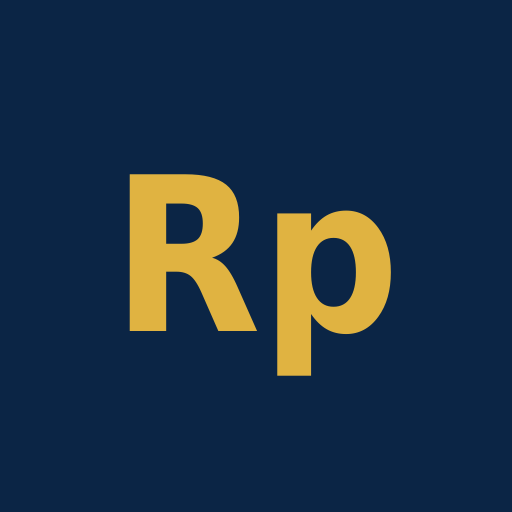
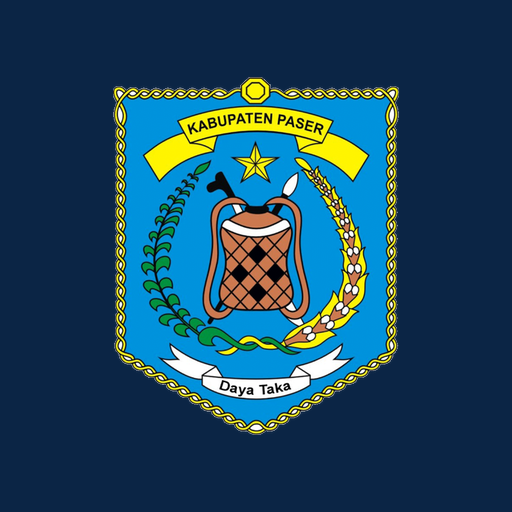
Add files via upload

diff --git a/index.html b/index.html
@@ -1,29 +1,29 @@
-<!DOCTYPE html><html lang="id"><head><meta charset="utf-8"><meta name="viewport" content="width=device-width,initial-scale=1"><meta name="theme-color" content="#0b2545"><link rel="manifest" href="manifest.json"><link rel="icon" href="icon.svg"><link rel="apple-touch-icon" href="icon-192.png"><meta name="apple-mobile-web-app-capable" content="yes"><meta name="mobile-web-app-capable" content="yes"><title>Potensi Pajak Daerah - BAPENDA Paser</title>
+<!DOCTYPE html><html lang="id"><head><meta charset="utf-8"><meta name="viewport" content="width=device-width,initial-scale=1,viewport-fit=cover"><meta name="theme-color" content="#073b6b"><link rel="manifest" href="manifest.json"><link rel="icon" href="icon-192.png"><link rel="apple-touch-icon" href="icon-192.png"><meta name="apple-mobile-web-app-capable" content="yes"><meta name="mobile-web-app-capable" content="yes"><title>Potensi Pajak Daerah - BAPENDA Paser</title>
 <script src="https://cdnjs.cloudflare.com/ajax/libs/xlsx/0.18.5/xlsx.full.min.js"></script>
 <style>
-:root{--navy:#0b2545;--gold:#e0b341;--bg:#f3f5f9;--ink:#16202e;--mut:#5d6b80;--line:#d5dbe6}
-*{box-sizing:border-box}body{margin:0;padding-bottom:110px;font:15px/1.45 system-ui,sans-serif;background:var(--bg);color:var(--ink)}
-header{background:var(--navy);color:#fff;padding:14px 16px 0;position:sticky;top:0;z-index:5}
-h1{font:700 18px Georgia,serif;margin:0 0 2px}header small{color:#b9c6dc}
-nav{display:flex;gap:4px;margin-top:10px}nav button{flex:1;padding:10px 4px;border:0;background:#17375f;color:#cfd9ea;font:600 14px inherit;border-radius:8px 8px 0 0}
-nav button.on{background:var(--bg);color:var(--navy)}
+:root{--navy:#073b6b;--blue:#0a6bb5;--gold:#f2c200;--bg:#f2f6fa;--ink:#16202e;--mut:#5d6b80;--line:#d5dde8}
+*{box-sizing:border-box}body{margin:0;padding-bottom:96px;font:15px/1.45 system-ui,sans-serif;background:var(--bg);color:var(--ink)}
+header{background:var(--navy);color:#fff;padding:calc(10px + env(safe-area-inset-top,0px)) 14px 0;position:sticky;top:0;z-index:5}
+.br{display:flex;align-items:center;gap:10px}.br img{height:46px;width:auto}h1{font:700 17px/1.2 Georgia,serif;margin:0}header small{color:#b9cfe6}
+nav{display:flex;gap:4px;margin-top:10px}nav button{flex:1;padding:10px 4px;border:0;background:#0d4d8a;color:#cfe0f2;font:600 14px inherit;border-radius:8px 8px 0 0}nav button.on{background:var(--bg);color:var(--navy)}
 main{padding:14px;max-width:900px;margin:auto}
-.tot{display:grid;grid-template-columns:repeat(2,1fr);gap:8px;margin-bottom:12px}
-.tot div{background:#fff;border:1px solid var(--line);border-radius:8px;padding:8px 10px}.tot b{display:block;font-size:15px}.tot span{color:var(--mut);font-size:12px}
-.tot .g{grid-column:1/-1;background:var(--navy);color:#fff}.tot .g span{color:#b9c6dc}
+.tot{display:flex;justify-content:space-between;align-items:baseline;margin-bottom:12px;padding:0 2px}.tot span{color:var(--mut);font-size:13px}.tot b{font-size:18px;color:var(--navy)}
 .card{background:#fff;border:1px solid var(--line);border-radius:10px;padding:12px;margin-bottom:12px}
-.grid{display:grid;grid-template-columns:repeat(auto-fill,minmax(150px,1fr));gap:8px}
-label{font-size:12px;color:var(--mut);display:block}input,select,textarea{width:100%;padding:8px;border:1px solid var(--line);border-radius:6px;font:inherit;background:#fff}
+.grid{display:grid;grid-template-columns:repeat(auto-fill,minmax(150px,1fr));gap:10px}
+label{font-size:12px;color:var(--mut);display:block;margin-bottom:2px}.au{color:var(--blue)}
+input,select,textarea{width:100%;padding:9px;border:1px solid var(--line);border-radius:6px;font:inherit;background:#fff}input:focus,select:focus,textarea:focus,button:focus-visible{outline:2px solid var(--blue);outline-offset:1px}
 textarea{min-height:110px;font:13px monospace}
-.btn{padding:9px 14px;border:0;border-radius:7px;background:var(--navy);color:#fff;font:600 14px inherit;margin:8px 6px 0 0}.btn.o{background:var(--gold);color:var(--navy)}.btn.l{background:#fff;color:var(--navy);border:1px solid var(--navy)}
-table{width:100%;border-collapse:collapse;font-size:13px}td,th{padding:7px 6px;border-bottom:1px solid var(--line);text-align:left;vertical-align:top}th{color:var(--mut);font-weight:600}td.r,th.r{text-align:right}
-.x{border:0;background:none;color:#b3261e;font-size:18px}.warn{background:#fff6dd;border:1px solid var(--gold);border-radius:8px;padding:9px 11px;font-size:13px;margin-bottom:12px}
+.btn{padding:10px 14px;border:0;border-radius:7px;background:var(--navy);color:#fff;font:600 14px inherit;margin:10px 6px 0 0}.btn.o{background:var(--gold);color:var(--navy)}.btn.l{background:#fff;color:var(--navy);border:1px solid var(--navy)}
+details summary{cursor:pointer;color:var(--blue);font-weight:600;font-size:14px}details.ex{margin-top:12px}details.ex .grid{margin-top:10px}
+table{width:100%;border-collapse:collapse;font-size:13px}td,th{padding:8px 6px;border-bottom:1px solid var(--line);text-align:left;vertical-align:top}th{color:var(--mut);font-weight:600}td.r,th.r{text-align:right}
+.warn{background:#fff6dd;border:1px solid var(--gold);border-radius:8px;padding:9px 11px;font-size:13px;margin-bottom:12px}
 .sc{overflow-x:auto}.res{font-size:12px;color:var(--mut)}
-.live{position:fixed;left:0;right:0;bottom:0;background:var(--navy);color:#fff;padding:8px 14px;display:flex;flex-wrap:wrap;gap:2px 16px;z-index:6;border-top:3px solid var(--gold)}
-.lr span{color:#b9c6dc;font-size:12px;margin-right:6px}.lr.t{width:100%;font-size:17px}.lr.t b{color:var(--gold)}
-.det td{background:#f8f9fc;font-size:12px}.det .btn{padding:6px 10px;font-size:13px}tr.k{cursor:pointer}
+.live{position:fixed;left:0;right:0;bottom:0;background:var(--navy);color:#fff;padding:8px 14px calc(8px + env(safe-area-inset-bottom,0px));z-index:6;border-top:3px solid var(--gold)}
+.live .t{display:flex;justify-content:space-between;align-items:baseline;font-size:17px}.live .t span{font-size:13px;color:#b9cfe6}.live .t b{color:var(--gold)}.live .d{font-size:12px;color:#b9cfe6;display:flex;flex-wrap:wrap;gap:0 14px}
+.det td{background:#f8fafc;font-size:12px}.det .btn{padding:6px 10px;font-size:13px}tr.k{cursor:pointer}
+@media(prefers-reduced-motion:no-preference){details[open]>.grid{animation:o .15s}@keyframes o{from{opacity:0}}}
 </style></head><body>
-<header><h1>Potensi pajak daerah</h1><small>BAPENDA Kabupaten Paser</small><button id="ins" class="btn o" style="display:none;position:absolute;right:12px;top:8px;margin:0" onclick="installApp()">Install aplikasi</button><nav id="nav"></nav></header>
+<header><div class="br"><img src="logo.png" alt="Lambang Kabupaten Paser"><div><h1>Potensi Pajak Daerah</h1><small>BAPENDA Kabupaten Paser</small></div><button id="ins" class="btn o" style="display:none;margin:0 0 0 auto" onclick="installApp()">Install</button></div><nav id="nav"></nav></header>
 <main><div class="tot" id="tot"></div><div id="view"></div></main><div class="live" id="live"></div>
 <script>
 const KEC=['Batu Engau','Batu Sopang','Kuaro','Long Ikis','Long Kali','Muara Komam','Muara Samu','Pasir Belengkong','Tanah Grogot','Tanjung Harapan','Belum diisi'];
@@ -31,41 +31,40 @@ const N=x=>parseFloat(x)||0,R=x=>'Rp '+Math.round(x).toLocaleString('id-ID');
 const def=()=>({hotel:[],hib:[],rek:[],cfg:{auto:true,arH:'Tanah Grogot = 36\nKuaro = 70\nLong Ikis = 42\nLong Kali = 50\nBatu Sopang = 72\nLainnya = 42',arB:'Karaoke = 50\nBioskop = 50\nBiliar = 50\nPanti pijat = 50\nKetangkasan mesin = 50\nPusat kebugaran = 50\nRefleksi = 50',tarif:20,jenis:'Billboard = 0\nBaliho = 0\nPapan nama = 0\nSpanduk = 0\nVideotron = 0\nNeon box = 0',lokasi:'Strategis tinggi = 0\nStrategis sedang = 0\nStrategis rendah = 0'}});
 let S;try{S=JSON.parse(localStorage.getItem('ppd'))||def()}catch(e){S=def()}S.cfg={...def().cfg,...S.cfg};
 const save=()=>localStorage.setItem('ppd',JSON.stringify(S));
-// field: 'kunci:Label:default'
-const BASE=['nama:Nama usaha','alamat:Alamat','kec:Kecamatan'];
-const parse=s=>s.map(x=>{const[k,l,d]=x.split(':');return{k,l,d:d??''}});
+// field 'kunci:Label:default:x' ; x = rincian tambahan (disembunyikan). default kosong = teks
+const BASE=['nama:Nama usaha','kec:Kecamatan','alamat:Alamat::x'];
+const parse=s=>s.map(x=>{const[k,l,d,x2]=x.split(':');return{k,l,d:d??'',x:x2=='x'}});
 const lst=t=>t.split('\n').map(l=>l.split('=')).filter(a=>a[0].trim()).map(a=>({n:a[0].trim(),v:N(a[1])}));
-const MOD={
-hotel:{nama:'Hotel',f:['kategori:Kategori (melati/bintang)','jenis:Jenis kamar','jml:Jumlah kamar:1','tarif:Tarif kamar (Rp):0','occ:Okupansi rata-rata (%):50','tp:Tarif pajak (%):10','hari:Hari setahun:365','mkn:F&B harga makan/orang:0','mnm:F&B harga minum/orang:0','fbh:F&B jumlah hari:0','fbar:F&B okupansi (%):0','rj:Ruang rapat jumlah:0','rt:Ruang rapat tarif:0','rh:Ruang rapat hari:0','rp:Paket makanan/orang:0','ro:Paket jumlah orang:0','rar:Ruang rapat okupansi (%):0','oth:Pendapatan lainnya (Rp):0'],
+const AK=['occ','fbar','rar','ar','arr','ark'];
+const MOD={hotel:{nama:'Hotel',f:['jml:Jumlah kamar:1','tarif:Tarif kamar per malam (Rp):0','occ:Okupansi (%):50','kategori:Kategori (melati/bintang)::x','jenis:Jenis kamar::x','tp:Tarif pajak (%):10:x','hari:Hari setahun:365:x','mkn:F&B harga makan/orang:0:x','mnm:F&B harga minum/orang:0:x','fbh:F&B jumlah hari:0:x','fbar:F&B okupansi (%):0:x','rj:Ruang rapat jumlah:0:x','rt:Ruang rapat tarif:0:x','rh:Ruang rapat hari:0:x','rp:Paket makanan/orang:0:x','ro:Paket jumlah orang:0:x','rar:Ruang rapat okupansi (%):0:x','oth:Pendapatan lainnya (Rp):0:x'],
  c:v=>{const l=v.tp/100,a=v.jml*v.tarif*v.occ/100*l*v.hari,b=(v.mkn+v.mnm)*v.fbh*v.fbar/100*l,c=(v.rj*v.rt*v.rh+v.rp*v.ro*v.rar/100)*l,d=v.oth*l;return{Kamar:a,'Food & beverage':b,'Ruang pertemuan':c,Lainnya:d,Total:a+b+c+d}}}};
 const HIB={
-karaoke:['Karaoke',['jk:Jumlah kamar/hall:1','tk:Tarif kamar (Rp):0','ar:Okupansi (%):30','je:Jam efektif/hari:8','pg:Pengunjung F&B/hari:0','hp:Harga rata-rata porsi:0','h:Hari setahun:365','tp:Tarif pajak (%):40'],v=>{const a=v.jk*v.tk*v.ar/100*v.je*v.h*v.tp/100,b=v.pg*v.hp*v.h*v.tp/100;return{Karaoke:a,'Restoran dalam karaoke':b,Total:a+b}}],
-bioskop:['Bioskop',['g:Jumlah theater:1','hh:Pertunjukan/hari:0','kk:Kapasitas kursi:0','ar:Okupansi (%):0','htm:HTM (Rp):0','tp:Tarif pajak (%):10','h:Hari:365'],v=>({Total:v.g*v.hh*v.kk*v.ar/100*v.htm*v.tp/100*v.h})],
-biliar:['Biliar',['m:Jumlah meja:1','t:Tarif/jam (Rp):0','ar:Okupansi (%):0','je:Jam efektif:8','tp:Tarif pajak (%):10','h:Hari:365'],v=>({Total:v.m*v.t*v.ar/100*v.je*v.tp/100*v.h})],
-pijat:['Panti pijat',['g:Jumlah room/bed:1','t:Tarif (Rp):0','ar:Okupansi (%):0','to:Turn over/hari:0','h:Hari:365','tp:Tarif pajak (%):10'],v=>({Total:v.g*v.t*v.ar/100*v.to*v.h*v.tp/100})],
-tangkas:['Ketangkasan mesin',['t:Tarif/mesin (Rp):0','m:Rata-rata mesin dipakai/hari:0','occ:Okupansi pengunjung (%):0','tp:Tarif pajak (%):10','h:Hari:365'],v=>({Total:v.t*v.m*v.occ/100*v.tp/100*v.h})],
-fitness:['Pusat kebugaran',['a:Jumlah anggota:0','b:Biaya keanggotaan/bulan (Rp):0','bl:Jumlah bulan:12','tp:Tarif pajak (%):10'],v=>({Total:v.a*v.b*v.bl*v.tp/100})],
-refleksi:['Refleksi',['jr:Jumlah room:0','tr:Tarif room (Rp):0','arr:Okupansi room (%):0','to1:Turn over room:0','h1:Hari room:365','jk:Jumlah kursi:0','tk:Tarif kursi (Rp):0','ark:Okupansi kursi (%):0','to2:Turn over kursi:0','h2:Hari kursi:365','tp:Tarif pajak (%):10'],v=>({Total:(v.jr*v.tr*v.arr/100*v.to1*v.h1+v.jk*v.tk*v.ark/100*v.to2*v.h2)*v.tp/100})]};
+karaoke:['Karaoke',['jk:Jumlah kamar/hall:1','tk:Tarif kamar per jam (Rp):0','ar:Okupansi (%):30','je:Jam efektif/hari:8:x','pg:Pengunjung F&B/hari:0:x','hp:Harga rata-rata porsi:0:x','h:Hari setahun:365:x','tp:Tarif pajak (%):40:x'],v=>{const a=v.jk*v.tk*v.ar/100*v.je*v.h*v.tp/100,b=v.pg*v.hp*v.h*v.tp/100;return{Karaoke:a,'Restoran dalam karaoke':b,Total:a+b}}],
+bioskop:['Bioskop',['hh:Pertunjukan/hari:0','kk:Kapasitas kursi:0','htm:HTM (Rp):0','ar:Okupansi (%):0','g:Jumlah theater:1:x','tp:Tarif pajak (%):10:x','h:Hari:365:x'],v=>({Total:v.g*v.hh*v.kk*v.ar/100*v.htm*v.tp/100*v.h})],
+biliar:['Biliar',['m:Jumlah meja:1','t:Tarif/jam (Rp):0','ar:Okupansi (%):0','je:Jam efektif:8:x','tp:Tarif pajak (%):10:x','h:Hari:365:x'],v=>({Total:v.m*v.t*v.ar/100*v.je*v.tp/100*v.h})],
+pijat:['Panti pijat',['g:Jumlah room/bed:1','t:Tarif (Rp):0','to:Turn over/hari:0','ar:Okupansi (%):0','h:Hari:365:x','tp:Tarif pajak (%):10:x'],v=>({Total:v.g*v.t*v.ar/100*v.to*v.h*v.tp/100})],
+tangkas:['Ketangkasan mesin',['t:Tarif/mesin (Rp):0','m:Rata-rata mesin dipakai/hari:0','occ:Okupansi pengunjung (%):0','tp:Tarif pajak (%):10:x','h:Hari:365:x'],v=>({Total:v.t*v.m*v.occ/100*v.tp/100*v.h})],
+fitness:['Pusat kebugaran',['a:Jumlah anggota:0','b:Biaya keanggotaan/bulan (Rp):0','bl:Jumlah bulan:12:x','tp:Tarif pajak (%):10:x'],v=>({Total:v.a*v.b*v.bl*v.tp/100})],
+refleksi:['Refleksi',['jr:Jumlah room:0','tr:Tarif room (Rp):0','arr:Okupansi room (%):0','to1:Turn over room:0','jk:Jumlah kursi:0:x','tk:Tarif kursi (Rp):0:x','ark:Okupansi kursi (%):0:x','to2:Turn over kursi:0:x','h1:Hari room:365:x','h2:Hari kursi:365:x','tp:Tarif pajak (%):10:x'],v=>({Total:(v.jr*v.tr*v.arr/100*v.to1*v.h1+v.jk*v.tk*v.ark/100*v.to2*v.h2)*v.tp/100})]};
 // Reklame: NSR = NJOPR + NSPR (tanpa kelas jalan); pajak = NSR x tarif
-const REK=['nama:Nama/penyelenggara','alamat:Alamat','kec:Kecamatan','jenis:Jenis reklame','lokasi:Lokasi strategis','pjg:Panjang (m):0','lbr:Lebar (m):0','sisi:Jumlah sisi:1','jml:Jumlah unit:1','masa:Masa (bulan):12'];
+const REK=['nama:Nama/penyelenggara','jenis:Jenis reklame','lokasi:Lokasi strategis','pjg:Panjang (m):0','lbr:Lebar (m):0','sisi:Jumlah sisi:1','masa:Masa (bulan):12','jml:Jumlah unit:1:x','kec:Kecamatan::x','alamat:Alamat::x'];
 function calcRek(v){const J=lst(S.cfg.jenis).find(x=>x.n==v.jenis),L=lst(S.cfg.lokasi).find(x=>x.n==v.lokasi),luas=v.pjg*v.lbr,
  njopr=luas*v.sisi*v.jml*(J?J.v:0),nspr=(L?L.v:0)*v.sisi*v.jml,nsr=(njopr+nspr)*v.masa/12;
  return{'Luas (m2)':luas,NJOPR:njopr,NSPR:nspr,NSR:nsr,Total:nsr*N(S.cfg.tarif)/100}}
 let tab='hotel',hibJ='karaoke',editIdx=null,ex=new Set();const esc=s=>String(s??'').replace(/[&<>"]/g,c=>({'&':'&amp;','<':'&lt;','>':'&gt;','"':'&quot;'}[c]));
 const fmt=(k,x)=>k.startsWith('Luas')?x.toLocaleString('id-ID'):R(x);
-function inp(f,pre){const id='f_'+f.k;
- if(f.k=='kec')return`<div><label>${f.l}</label><select id="${id}">${KEC.map(k=>`<option>${k}</option>`).join('')}</select></div>`;
- if(f.k=='jenis'&&pre=='rek')return`<div><label>${f.l}</label><select id="${id}">${lst(S.cfg.jenis).map(x=>`<option>${x.n}</option>`).join('')}</select></div>`;
- if(f.k=='lokasi')return`<div><label>${f.l}</label><select id="${id}">${lst(S.cfg.lokasi).map(x=>`<option>${x.n}</option>`).join('')}</select></div>`;
- const t=f.d!==''?'number':'text';return`<div><label>${f.l}</label><input id="${id}" type="${t}" inputmode="${t=='number'?'decimal':'text'}" value="${f.d}"></div>`}
-function fieldsFor(m){return m=='hotel'?[...parse(BASE),...parse(MOD.hotel.f)]:m=='hib'?[...parse(BASE),...parse(HIB[hibJ][1])]:parse(REK)}
+function inp(f,pre){const id='f_'+f.k,L=f.l+(AK.includes(f.k)?' <span class="au">· otomatis</span>':'');
+ const sel=a=>`<div><label>${L}</label><select id="${id}">${a.map(k=>`<option>${k}</option>`).join('')}</select></div>`;
+ if(f.k=='kec')return sel(KEC);if(f.k=='jenis'&&pre=='rek')return sel(lst(S.cfg.jenis).map(x=>x.n));if(f.k=='lokasi')return sel(lst(S.cfg.lokasi).map(x=>x.n));
+ const t=f.d!==''?'number':'text';return`<div><label>${L}</label><input id="${id}" type="${t}" inputmode="${t=='number'?'decimal':'text'}" value="${f.d}"></div>`}
+const FS=(m,j)=>m=='hotel'?[...parse(BASE),...parse(MOD.hotel.f)]:m=='hib'?[...parse(BASE),...parse(HIB[j][1])]:parse(REK);
+const fieldsFor=m=>FS(m,hibJ),fieldsFor2=(m,e)=>FS(m,e.j);
 function read(fs){const v={};fs.forEach(f=>{const e=document.getElementById('f_'+f.k);v[f.k]=f.d!==''?N(e.value):e.value});return v}
 function calc(m,e){return m=='hotel'?MOD.hotel.c(e.v):m=='hib'?HIB[e.j][2](e.v):calcRek(e.v)}
 function add(){const fs=fieldsFor(tab),v=read(fs);if(!v.nama.trim()){alert('Isi nama usaha dulu.');return}
- const e={v};if(tab=='hib')e.j=hibJ;if(editIdx!=null){S[tab][editIdx]=e;editIdx=null}else S[tab].push(e);save();render()}
+ const e={v};if(tab=='hib')e.j=hibJ;if(editIdx!=null){S[tab][editIdx]=e;editIdx=null}else S[tab].push(e);save();render();scrollTo(0,0)}
 function del(i){if(confirm('Hapus data ini?')){S[tab].splice(i,1);save();render()}}
 function rows(m){return S[m].map((e,i)=>{const fs=fieldsFor2(m,e),o={No:i+1};if(m=='hib')o['Jenis hiburan']=HIB[e.j][0];fs.forEach(f=>o[f.l]=e.v[f.k]);Object.entries(calc(m,e)).forEach(([k,x])=>o[k=='Total'?'Potensi pajak (Rp)':k]=Math.round(x*100)/100);return o})}
-function fieldsFor2(m,e){return m=='hotel'?[...parse(BASE),...parse(MOD.hotel.f)]:m=='hib'?[...parse(BASE),...parse(HIB[e.j][1])]:parse(REK)}
 const tot=m=>S[m].reduce((s,e)=>s+calc(m,e).Total,0);
 const NM={hotel:'Hotel',hib:'Kesenian & hiburan',rek:'Reklame'};
 function file(n,ext){return`potensi-${n}-${new Date().toISOString().slice(0,10)}.${ext}`}
@@ -78,12 +77,17 @@ function xl(all){const wb=XLSX.utils.book_new(),ms=all?['hotel','hib','rek']:[ta
  if(!any)return alert('Belum ada data.');XLSX.writeFile(wb,file(all?'semua':tab,'xlsx'))}
 function saveCfg(){const g=i=>document.getElementById(i);S.cfg.tarif=N(g('c_t').value);S.cfg.jenis=g('c_j').value;S.cfg.lokasi=g('c_l').value;save();render()}
 function saveAR(){const g=i=>document.getElementById(i);S.cfg.auto=g('a_on').checked;if(g('a_h'))S.cfg.arH=g('a_h').value;if(g('a_b'))S.cfg.arB=g('a_b').value;save();render()}
+// ---- okupansi otomatis: rata-rata data tersimpan (kecamatan / jenis yang sama), kalau belum ada pakai tabel awal ----
 const look=(t,n)=>{const l=lst(t),f=l.find(x=>x.n.toLowerCase()==String(n).toLowerCase())||l.find(x=>x.n.toLowerCase()=='lainnya');return f?f.v:null};
-function applyAR(){if(!S.cfg.auto||tab=='rek')return;const el=k=>document.getElementById('f_'+k),val=tab=='hotel'?look(S.cfg.arH,el('kec').value):look(S.cfg.arB,HIB[hibJ][0]);
- if(val==null)return;['occ','fbar','rar','ar','arr','ark'].forEach(k=>{const e=el(k);if(e)e.value=val})}
-function chg(ev){if(ev.target.id=='f_kec'&&tab=='hotel')applyAR();live()}
+function autoVal(){const el=k=>document.getElementById('f_'+k);let a;
+ if(tab=='hotel'){const kc=el('kec').value;a=S.hotel.filter(e=>e.v.kec==kc&&e.v.occ>0).map(e=>e.v.occ);if(!a.length)return look(S.cfg.arH,kc)}
+ else{a=S.hib.filter(e=>e.j==hibJ).map(e=>e.v.ar??e.v.occ??e.v.arr).filter(x=>x>0);if(!a.length)return look(S.cfg.arB,HIB[hibJ][0])}
+ return Math.round(a.reduce((s,x)=>s+x,0)/a.length*10)/10}
+function applyAR(){if(!S.cfg.auto||tab=='rek')return;const v=autoVal();if(v==null)return;AK.forEach(k=>{const e=document.getElementById('f_'+k);if(e&&!e.dataset.man)e.value=v})}
+function chg(ev){const t=ev.target;if(AK.includes(t.id.slice(2)))t.dataset.man=1;if(t.id=='f_kec'&&tab=='hotel'){AK.forEach(k=>{const e=document.getElementById('f_'+k);if(e)delete e.dataset.man});applyAR()}live()}
 function live(){let c;try{c=calc(tab,{v:read(fieldsFor(tab)),j:hibJ})}catch(e){return}
- document.getElementById('live').innerHTML=Object.entries(c).map(([k,x])=>k=='Total'?`<div class="lr t"><span>${tab=='rek'?'Pajak reklame per tahun':'Potensi pajak per tahun'}</span><b>${fmt(k,x)}</b></div>`:`<div class="lr"><span>${k}</span>${fmt(k,x)}</div>`).join('')}
+ const d=Object.entries(c).filter(([k,x])=>k!='Total'&&Object.keys(c).length>2).map(([k,x])=>`<span>${k}: ${fmt(k,x)}</span>`).join('');
+ document.getElementById('live').innerHTML=`<div class="t"><span>${tab=='rek'?'Pajak reklame per tahun':'Potensi pajak per tahun'}</span><b>${fmt('Total',c.Total)}</b></div>${d?`<div class="d">${d}</div>`:''}`}
 // ---- import ----
 const pc=x=>{x=N(x);return x<=1?x*100:x};
 function kecM(t){t=String(t).toLowerCase();if(/\btgt\b/.test(t))return'Tanah Grogot';return KEC.find(k=>t.includes(k.toLowerCase()))||'Belum diisi'}
@@ -93,30 +97,42 @@ function impHotel(a){const kec=kecM(a[1]?.[0]);let nm='',al='',kt='',c=0;
 function impKar(a){let c=0;for(let i=6;i<a.length;i++){const r=a[i];if(!String(r[1]).trim()||!(N(r[6])>0))continue;
  S.hib.push({j:'karaoke',v:{nama:String(r[1]).trim(),alamat:String(r[2]).trim(),kec:kecM(r[2]),jk:N(r[6]),tk:N(r[7]),ar:pc(r[8]),je:N(r[9]),pg:N(r[10]),hp:N(r[11]),h:N(r[12])||365,tp:pc(r[13])||40}});c++}return c}
 function impOwn(sn,a){if(!a[0]||!a[0].includes('Nama usaha')||sn=='Ringkasan')return 0;const m=Object.keys(NM).find(k=>NM[k].slice(0,31)==sn)||tab;let c=0;
- a.slice(1).forEach(r=>{const o={};a[0].forEach((h,i)=>o[h]=r[i]);if(!String(o['Nama usaha']).trim())return;let e={},fs;
-  if(m=='hib'){const j=Object.keys(HIB).find(k=>HIB[k][0]==o['Jenis hiburan']);if(!j)return;e.j=j;fs=[...parse(BASE),...parse(HIB[j][1])]}else fs=m=='hotel'?[...parse(BASE),...parse(MOD.hotel.f)]:parse(REK);
+ a.slice(1).forEach(r=>{const o={};a[0].forEach((h,i)=>o[h]=r[i]);if(!String(o['Nama usaha']??o['Nama/penyelenggara']??'').trim())return;let e={},fs;
+  if(m=='hib'){const j=Object.keys(HIB).find(k=>HIB[k][0]==o['Jenis hiburan']);if(!j)return;e.j=j;fs=FS('hib',j)}else fs=FS(m);
   e.v={};fs.forEach(f=>e.v[f.k]=f.d!==''?N(o[f.l]):String(o[f.l]??''));S[m].push(e);c++});return c}
+const GH={nama:/nama/i,alamat:/alamat/i,kec:/kecamatan|kec\./i,jml:/jumlah\s*kamar|jml.*kamar/i,tarif:/(tarif|harga).*kamar/i,occ:/okupansi|hunian/i};
+function impGen(a){let hi=-1,mp;
+ for(let i=0;i<Math.min(a.length,20)&&hi<0;i++){const m={};a[i].forEach((c,j)=>{const t=String(c);for(const k in GH)if(m[k]==null&&GH[k].test(t)&&!(k=='nama'&&/pemilik|npwpd|kode|petugas/i.test(t)))m[k]=j});if(m.nama!=null&&(m.alamat!=null||m.kec!=null)){hi=i;mp=m}}
+ if(hi<0)return 0;let c=0;
+ a.slice(hi+1).forEach(r=>{const nm=String(r[mp.nama]??'').trim();if(!nm)return;const v={};
+  FS(tab,hibJ).forEach(x=>v[x.k]=x.d!==''?N(x.d):'');
+  v.nama=nm;v.alamat=mp.alamat!=null?String(r[mp.alamat]).trim():'';v.kec=kecM(mp.kec!=null?r[mp.kec]:v.alamat);
+  if(tab=='hotel'){if(mp.jml!=null&&N(r[mp.jml])>0)v.jml=N(r[mp.jml]);if(mp.tarif!=null)v.tarif=N(r[mp.tarif]);if(mp.occ!=null&&N(r[mp.occ])>0)v.occ=pc(r[mp.occ])}
+  const e={v};if(tab=='hib')e.j=hibJ;S[tab].push(e);c++});return c}
 function impSheet(sn,a){const t=String(a[0]?.[0]||'').toUpperCase();
- if(t.includes('POTENSI PAJAK HOTEL'))return impHotel(a);if(t.includes('KARAOKE UMUM'))return impKar(a);return impOwn(sn,a)}
+ if(t.includes('POTENSI PAJAK HOTEL'))return impHotel(a);if(t.includes('KARAOKE UMUM'))return impKar(a);return impOwn(sn,a)||impGen(a)}
 async function imp(inp){const f=inp.files[0];if(!f)return;let n=0;try{const wb=XLSX.read(await f.arrayBuffer(),{type:'array'});
  wb.SheetNames.forEach(s=>{n+=impSheet(s,XLSX.utils.sheet_to_json(wb.Sheets[s],{header:1,defval:''}))})}catch(e){alert('File tidak bisa dibaca.')}
- inp.value='';save();render();alert(n?n+' baris data berhasil diimpor.':'Tidak ada data yang cocok. Pakai file export aplikasi ini, atau Excel Potensi Hotel / Karaoke Umum.')}
+ inp.value='';save();render();alert(n?n+' baris data berhasil diimpor ke tab '+NM[tab]+'. Nilai yang tidak ada di file memakai isian awal, silakan lengkapi lewat Ubah.':'Tidak ada data yang cocok. File harus punya kolom Nama dan Alamat atau Kecamatan di barisan judul. Pakai file export SIMPADATAKA, export aplikasi ini, atau Excel Potensi Hotel / Karaoke Umum.')}
+function bk(){const a=document.createElement('a');a.href=URL.createObjectURL(new Blob([JSON.stringify(S)],{type:'application/json'}));a.download=file('cadangan','json');a.click()}
+async function rs(i){const f=i.files[0];if(!f)return;try{const d=JSON.parse(await f.text());if(!d.hotel||!d.hib||!d.rek)throw 0;if(!confirm('Ganti semua data di perangkat ini dengan file cadangan?')){i.value='';return}S={...def(),...d};S.cfg={...def().cfg,...d.cfg};save();render()}catch(e){alert('File cadangan tidak valid.')}i.value=''}
 function tg(i){ex.has(i)?ex.delete(i):ex.add(i);render()}
 function ubah(i){editIdx=i;if(tab=='hib')hibJ=S.hib[i].j;render();scrollTo(0,0)}
-function arCard(){return tab=='rek'?'':`<details class="card"><summary><b>Okupansi otomatis</b></summary><label><input type="checkbox" id="a_on" style="width:auto" ${S.cfg.auto?'checked':''}> Isi okupansi rate otomatis di formulir</label>${tab=='hotel'?`<label>Okupansi hotel per kecamatan (%), rata-rata dari Excel Potensi Hotel</label><textarea id="a_h">${S.cfg.arH}</textarea>`:`<label>Okupansi per jenis hiburan (%), karaoke dari Excel, lainnya angka awal</label><textarea id="a_b">${S.cfg.arB}</textarea>`}<button class="btn o" onclick="saveAR()">Simpan</button></details>`}
+function arCard(){return tab=='rek'?'':`<details class="card"><summary>Pengaturan okupansi otomatis</summary><label style="margin-top:10px"><input type="checkbox" id="a_on" style="width:auto" ${S.cfg.auto?'checked':''}> Isi okupansi otomatis di formulir</label><p class="res">Dipakai rata-rata dari data tersimpan (kecamatan atau jenis yang sama). Kalau belum ada data, dipakai angka awal di bawah.</p>${tab=='hotel'?`<label>Angka awal hotel per kecamatan (%)</label><textarea id="a_h">${S.cfg.arH}</textarea>`:`<label>Angka awal per jenis hiburan (%)</label><textarea id="a_b">${S.cfg.arB}</textarea>`}<button class="btn o" onclick="saveAR()">Simpan</button></details>`}
 function render(){
  document.getElementById('nav').innerHTML=['hotel','hib','rek'].map(m=>`<button class="${m==tab?'on':''}" onclick="tab='${m}';editIdx=null;ex.clear();render()">${NM[m]}</button>`).join('');
- document.getElementById('tot').innerHTML=['hotel','hib','rek'].map(m=>`<div><span>${NM[m]} (${S[m].length})</span><b>${R(tot(m))}</b></div>`).join('')+`<div class="g"><span>Total potensi setahun</span><b>${R(tot('hotel')+tot('hib')+tot('rek'))}</b></div>`;
+ document.getElementById('tot').innerHTML=`<span>Total potensi setahun (${S.hotel.length+S.hib.length+S.rek.length} objek)</span><b>${R(tot('hotel')+tot('hib')+tot('rek'))}</b>`;
  let h='';
  if(tab=='rek'){const z=![...lst(S.cfg.jenis),...lst(S.cfg.lokasi)].some(x=>x.v>0);
-  h+=(z?`<div class="warn">Nilai NJOP dan nilai lokasi strategis masih 0. Isi dari lampiran Perbup Paser No. 41/2020 di bagian pengaturan di bawah, supaya potensi reklame terhitung.</div>`:'')+
-  `<details class="card"><summary><b>Pengaturan tarif reklame</b></summary><label>Tarif pajak (%)</label><input id="c_t" type="number" value="${S.cfg.tarif}"><label>NJOP per m2 tiap jenis (satu baris: nama = nilai)</label><textarea id="c_j">${S.cfg.jenis}</textarea><label>Nilai lokasi strategis per sisi (tanpa kelas jalan)</label><textarea id="c_l">${S.cfg.lokasi}</textarea><button class="btn o" onclick="saveCfg()">Simpan pengaturan</button><p class="res">NSR = (luas x sisi x unit x NJOP jenis + nilai lokasi x sisi x unit) x masa/12. Pajak = NSR x tarif.</p></details>`}
+  h+=(z?`<div class="warn">Nilai NJOP dan lokasi strategis masih 0. Isi dari lampiran Perbup Paser No. 41/2020 di Pengaturan tarif reklame di bawah.</div>`:'')+
+  `<details class="card"><summary>Pengaturan tarif reklame</summary><label style="margin-top:10px">Tarif pajak (%)</label><input id="c_t" type="number" value="${S.cfg.tarif}"><label>NJOP per m2 tiap jenis (satu baris: nama = nilai)</label><textarea id="c_j">${S.cfg.jenis}</textarea><label>Nilai lokasi strategis per sisi (tanpa kelas jalan)</label><textarea id="c_l">${S.cfg.lokasi}</textarea><button class="btn o" onclick="saveCfg()">Simpan pengaturan</button><p class="res">NSR = (luas x sisi x unit x NJOP jenis + nilai lokasi x sisi x unit) x masa/12. Pajak = NSR x tarif.</p></details>`}
  if(tab=='hib')h+=`<div class="card"><label>Jenis hiburan</label><select ${editIdx!=null?'disabled':''} onchange="hibJ=this.value;render()">${Object.entries(HIB).map(([k,x])=>`<option value="${k}" ${k==hibJ?'selected':''}>${x[0]}</option>`).join('')}</select></div>`;
- h+=`<div class="card"><b>${editIdx!=null?'Ubah data':'Hitung dan tambah data'} ${NM[tab].toLowerCase()}</b><div class="grid" style="margin-top:8px" oninput="chg(event)" onchange="chg(event)">${fieldsFor(tab).map(f=>inp(f,tab)).join('')}</div><button class="btn" onclick="add()">Simpan data</button>${editIdx!=null?'<button class="btn l" onclick="editIdx=null;render()">Batal ubah</button>':''}</div>`;
+ const fs=fieldsFor(tab),m=fs.filter(f=>!f.x),x=fs.filter(f=>f.x);
+ h+=`<div class="card" oninput="chg(event)" onchange="chg(event)"><b>${editIdx!=null?'Ubah data':'Tambah data'} ${NM[tab].toLowerCase()}</b><div class="grid" style="margin-top:10px">${m.map(f=>inp(f,tab)).join('')}</div>${x.length?`<details class="ex" ${editIdx!=null?'open':''}><summary>Rincian tambahan (opsional)</summary><div class="grid">${x.map(f=>inp(f,tab)).join('')}</div></details>`:''}<button class="btn" onclick="add()">Simpan data</button>${editIdx!=null?'<button class="btn l" onclick="editIdx=null;render()">Batal</button>':''}</div>`;
  const r=S[tab];h+=`<div class="card sc"><table><tr><th>Usaha (ketuk untuk detail)</th><th class="r">Potensi/tahun</th></tr>${r.length?r.map((e,i)=>{const c=calc(tab,e),o=ex.has(i);return`<tr class="k" onclick="tg(${i})"><td><b>${esc(e.v.nama)}</b><div class="res">${esc(e.v.kec)}${tab=='hib'?' · '+HIB[e.j][0]:''}${tab=='rek'?' · '+esc(e.v.jenis):''}</div></td><td class="r">${R(c.Total)}</td></tr>`+(o?`<tr class="det"><td colspan="2">${fieldsFor2(tab,e).map(f=>`${f.l}: <b>${esc(e.v[f.k])}</b>`).join(' · ')}<br><br>${Object.entries(c).map(([k,x])=>`${k}: <b>${fmt(k,x)}</b>`).join(' · ')}<br><button class="btn" onclick="event.stopPropagation();ubah(${i})">Ubah</button><button class="btn l" onclick="event.stopPropagation();del(${i})">Hapus</button></td></tr>`:'')}).join(''):'<tr><td colspan="2" class="res">Belum ada data. Isi formulir di atas atau import dari Excel.</td></tr>'}</table></div>`;
- h+=`<button class="btn o" onclick="xl(false)">Export Excel ${NM[tab]}</button><button class="btn l" onclick="csv(tab)">Export CSV</button><button class="btn" onclick="xl(true)">Export Excel semua pajak</button><label class="btn l" style="display:inline-block">Import data<input type="file" accept=".xlsx,.xls,.csv" hidden onchange="imp(this)"></label>`+arCard();
+ h+=`<button class="btn o" onclick="xl(false)">Export Excel ${NM[tab]}</button><button class="btn l" onclick="csv(tab)">Export CSV</button><button class="btn" onclick="xl(true)">Export semua pajak</button><label class="btn l" style="display:inline-block">Import SIMPADATAKA / Excel<input type="file" accept=".xlsx,.xls,.csv" hidden onchange="imp(this)"></label>`+`<br><button class="btn l" onclick="bk()">Cadangkan data</button><label class="btn l" style="display:inline-block">Pulihkan cadangan<input type="file" accept=".json" hidden onchange="rs(this)"></label>`+arCard();
  document.getElementById('view').innerHTML=h;
- if(editIdx!=null){const e=S[tab][editIdx];fieldsFor(tab).forEach(f=>{const el=document.getElementById('f_'+f.k);if(el)el.value=e.v[f.k]})}else applyAR();live()}
+ if(editIdx!=null){const e=S[tab][editIdx];fs.forEach(f=>{const el=document.getElementById('f_'+f.k);if(el)el.value=e.v[f.k]})}else applyAR();live()}
 let dp=null;const stand=matchMedia('(display-mode: standalone)').matches||navigator.standalone;
 const ios=/iphone|ipad|ipod/i.test(navigator.userAgent);
 if(!stand){if(ios)document.getElementById('ins').style.display='block';

diff --git a/sw.js b/sw.js
@@ -1,4 +1,4 @@
-const C='potensi-pajak-v3',A=['./','./index.html','./manifest.json','./icon.svg','./icon-192.png','./icon-512.png'];
+const C='potensi-pajak-v5',A=['./','./index.html','./manifest.json','./logo.png','./icon-192.png','./icon-512.png'];
 self.addEventListener('install',e=>{e.waitUntil(caches.open(C).then(c=>c.addAll(A)));self.skipWaiting()});
 self.addEventListener('activate',e=>{e.waitUntil(caches.keys().then(k=>Promise.all(k.filter(x=>x!==C).map(x=>caches.delete(x)))));self.clients.claim()});
 self.addEventListener('fetch',e=>{if(e.request.method!=='GET')return;e.respondWith(fetch(e.request).then(r=>{const c=r.clone();caches.open(C).then(x=>x.put(e.request,c));return r}).catch(()=>caches.match(e.request)))});
